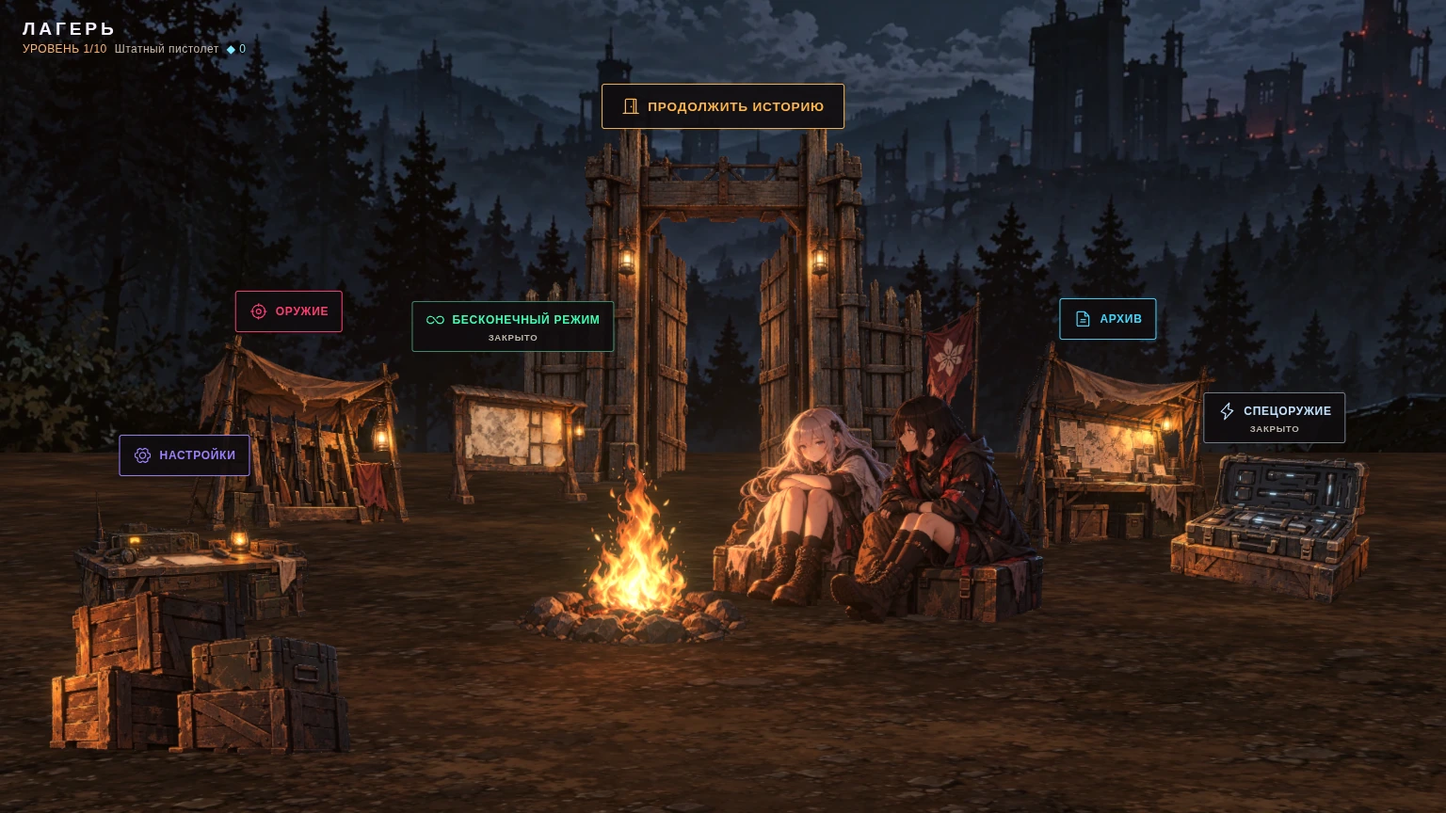
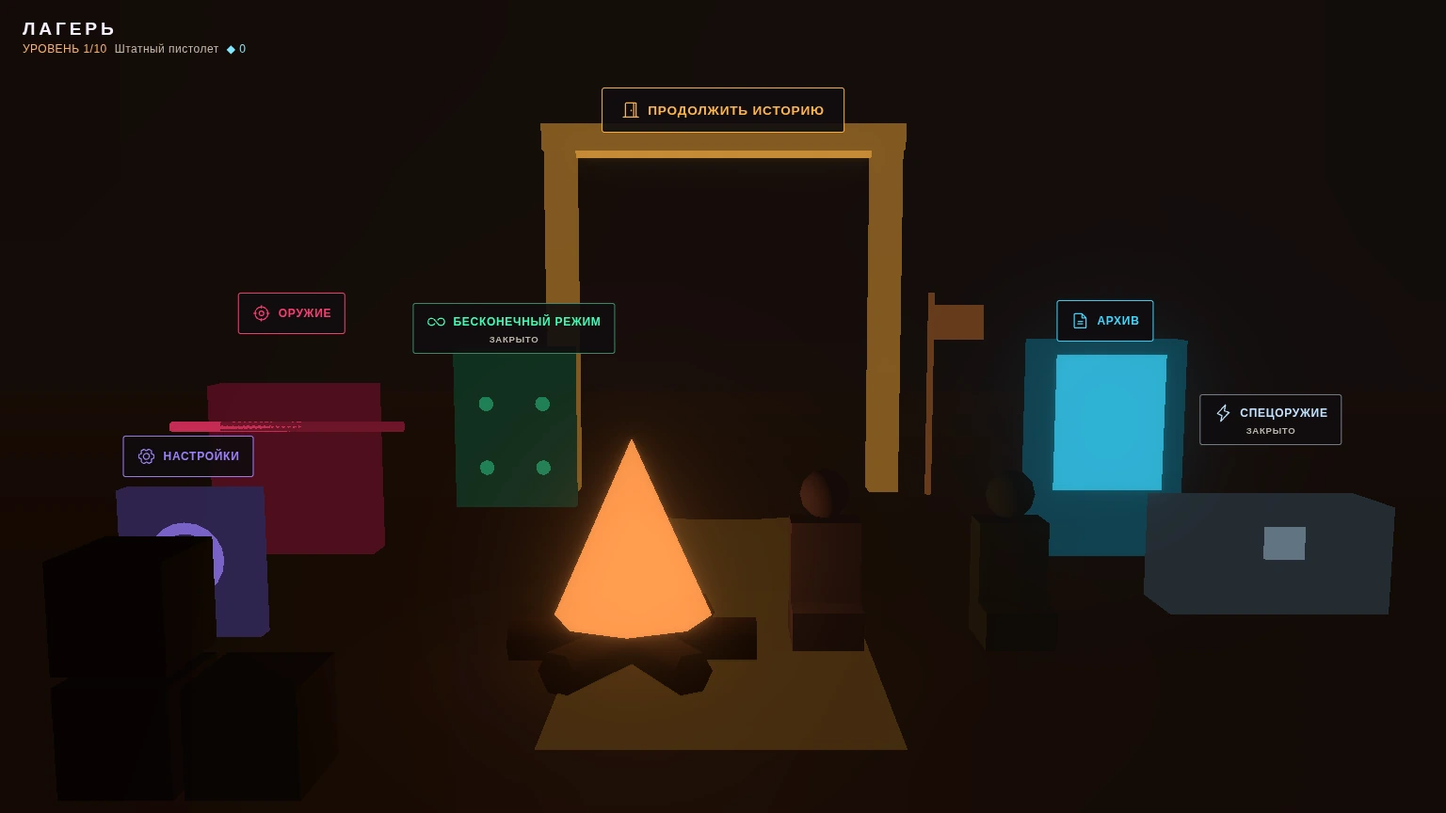
Remove generated camp art and keep schematic geometry

diff --git a/src/world/CampWorld.ts b/src/world/CampWorld.ts
@@ -3,8 +3,7 @@ import { CAMP_STATIONS, type CampStationDefinition, type CampStationId, type Cam
 import { CAMP_LAYOUT, CAMP_GROUND } from '../gameplay/campLayout';
 import { createCampCutout } from './CampCutout';
 import { WEAPONS } from '../gameplay/weapons';
-import { createCharacterPoseTexture } from '../utils/characterSprite';
-import { CAMP_SCENE, CAMP_CAMERA, PLAYER } from '../utils/constants';
+import { CAMP_SCENE, CAMP_CAMERA } from '../utils/constants';
 import { tryLoadTiledTexture } from '../utils/textureLoader';
 
 interface StationVisual {
@@ -56,7 +55,7 @@ export class CampWorld {
     this.backdrop = createCampCutout(CAMP_LAYOUT.backdrop.asset);
     this.backdrop.position.copy(CAMP_LAYOUT.backdrop.position);
     this.group.add(this.backdrop);
-    const foreground = createCampCutout(CAMP_LAYOUT.foregroundSupplies.asset);
+    const foreground = createCampCutout(CAMP_LAYOUT.foregroundSupplies.asset, this.buildCrates());
     foreground.position.copy(CAMP_LAYOUT.foregroundSupplies.position);
     this.group.add(foreground);
     this.group.add(this.buildAmbientLight());
@@ -73,7 +72,7 @@ export class CampWorld {
     this.character = this.buildCharacter();
     this.characterBaseY = this.character.position.y;
     this.group.add(this.character);
-    const companion = createCampCutout(CAMP_LAYOUT.companion.asset);
+    const companion = this.buildCharacter(true);
     companion.position.copy(CAMP_LAYOUT.companion.position);
     this.group.add(companion);
   }
@@ -91,7 +90,7 @@ export class CampWorld {
     floor.rotation.x = -Math.PI / 2;
     floor.position.set(0, -0.02, 0);
 
-    tryLoadTiledTexture(CAMP_GROUND.texturePath, CAMP_GROUND.repeatX, CAMP_GROUND.repeatY, (texture) => {
+    if (CAMP_GROUND.texturePath) tryLoadTiledTexture(CAMP_GROUND.texturePath, CAMP_GROUND.repeatX, CAMP_GROUND.repeatY, (texture) => {
       material.map = texture;
       material.color.setHex(0xffffff);
       material.emissiveMap = texture;
@@ -109,7 +108,6 @@ export class CampWorld {
 
   private buildCampfire(): THREE.PointLight {
     const fireGroup = new THREE.Group();
-    fireGroup.position.copy(CAMP_LAYOUT.fire.position);
 
     const logMaterial = new THREE.MeshStandardMaterial({
       color: 0x2b1a10,
@@ -221,19 +219,30 @@ export class CampWorld {
     this.embers.instanceMatrix.needsUpdate = true;
   }
 
-  private buildCharacter(): THREE.Group {
-    const texture = createCharacterPoseTexture('kneel');
-    const material = new THREE.MeshBasicMaterial({
-      map: texture,
-      transparent: true,
-      alphaTest: 0.1,
-      side: THREE.DoubleSide,
-    });
-    const geometry = new THREE.PlaneGeometry(PLAYER.WIDTH, PLAYER.HEIGHT);
-    const mesh = new THREE.Mesh(geometry, material);
-    mesh.position.y = PLAYER.HEIGHT / 2;
-    const group = createCampCutout(CAMP_LAYOUT.character.asset, mesh);
-    group.position.copy(CAMP_LAYOUT.character.position);
+  private buildCharacter(companion = false): THREE.Group {
+    const definition = companion ? CAMP_LAYOUT.companion : CAMP_LAYOUT.character;
+    const material = new THREE.MeshStandardMaterial({ color: companion ? 0x819d91 : 0x9988ad, roughness: 1 });
+    const figure = new THREE.Group();
+    const head = new THREE.Mesh(new THREE.SphereGeometry(0.2, 8, 6), material);
+    head.position.y = 1.25;
+    const body = new THREE.Mesh(new THREE.BoxGeometry(0.55, 0.65, 0.35), material);
+    body.position.y = 0.72;
+    const legs = new THREE.Mesh(new THREE.BoxGeometry(0.55, 0.3, 0.65), material);
+    legs.position.set(0, 0.25, 0.15);
+    figure.add(head, body, legs);
+    const group = createCampCutout(definition.asset, figure);
+    group.position.copy(definition.position);
+    return group;
+  }
+
+  private buildCrates(): THREE.Group {
+    const material = new THREE.MeshStandardMaterial({ color: 0x52504a, roughness: 1 });
+    const group = new THREE.Group();
+    for (let i = 0; i < 3; i++) {
+      const crate = new THREE.Mesh(new THREE.BoxGeometry(0.5, 0.5, 0.5), material);
+      crate.position.set((i % 2) * 0.55, 0.25 + Math.floor(i / 2) * 0.55, 0);
+      group.add(crate);
+    }
     return group;
   }
 
@@ -339,11 +348,11 @@ export class CampWorld {
     const dim = station.ready ? 1 : 0.4;
 
     const baseMaterial = new THREE.MeshStandardMaterial({
-      color: 0x201509,
+      color: 0x353a43,
       roughness: 0.75,
       metalness: 0.15,
       emissive: new THREE.Color(station.accentColorHex),
-      emissiveIntensity: 0.18 * dim,
+      emissiveIntensity: 0.08 * dim,
     });
     const accentMaterial = new THREE.MeshStandardMaterial({
       color: station.accentColorHex,
@@ -465,7 +474,7 @@ export class CampWorld {
     visual.locked = locked;
 
     const dim = locked ? 0.4 : 1;
-    visual.baseMaterial.emissiveIntensity = 0.18 * dim;
+    visual.baseMaterial.emissiveIntensity = 0.08 * dim;
     visual.accentMaterial.emissiveIntensity = 0.6 * dim;
 
   }

diff --git a/src/gameplay/campStations.ts b/src/gameplay/campStations.ts
@@ -40,7 +40,7 @@ export const CAMP_STATIONS: CampStationDefinition[] = [
     label: 'ОРУЖИЕ',
     ready: true,
     propPosition: { x: -6, y: 0, z: -0.5 },
-    asset: { path: '/assets/camp/weapon.webp', width: 3.2, height: 3.1 },
+    asset: { width: 3.2, height: 3.1 },
     labelHeight: 3.35,
     cameraPosition: stationCamera,
     cameraLookAt: stationLookAt,
@@ -52,7 +52,7 @@ export const CAMP_STATIONS: CampStationDefinition[] = [
     label: 'АРХИВ',
     ready: true,
     propPosition: { x: 5.3, y: 0, z: -0.4 },
-    asset: { path: '/assets/camp/archive.webp', width: 3.2, height: 3.0 },
+    asset: { width: 3.2, height: 3.0 },
     labelHeight: 3.25,
     cameraPosition: stationCamera,
     cameraLookAt: stationLookAt,
@@ -64,7 +64,7 @@ export const CAMP_STATIONS: CampStationDefinition[] = [
     label: 'БЕСКОНЕЧНЫЙ РЕЖИМ',
     ready: false,
     propPosition: { x: -3.5, y: 0, z: -3.8 },
-    asset: { path: '/assets/camp/endless.webp', width: 2.5, height: 2.7 },
+    asset: { width: 2.5, height: 2.7 },
     labelHeight: 3,
     cameraPosition: stationCamera,
     cameraLookAt: stationLookAt,
@@ -76,7 +76,7 @@ export const CAMP_STATIONS: CampStationDefinition[] = [
     label: 'СПЕЦОРУЖИЕ',
     ready: false,
     propPosition: { x: 6.4, y: 0, z: 2.3 },
-    asset: { path: '/assets/camp/special.webp', width: 2.5, height: 1.9 },
+    asset: { width: 2.5, height: 1.9 },
     labelHeight: 2.2,
     cameraPosition: stationCamera,
     cameraLookAt: stationLookAt,
@@ -88,7 +88,7 @@ export const CAMP_STATIONS: CampStationDefinition[] = [
     label: 'НАСТРОЙКИ',
     ready: true,
     propPosition: { x: -5.7, y: 0, z: 3.5 },
-    asset: { path: '/assets/camp/settings.webp', width: 2.7, height: 1.6 },
+    asset: { width: 2.7, height: 1.6 },
     labelHeight: 1.95,
     cameraPosition: stationCamera,
     cameraLookAt: stationLookAt,
@@ -100,7 +100,7 @@ export const CAMP_STATIONS: CampStationDefinition[] = [
     label: 'ПРОДОЛЖИТЬ ИСТОРИЮ',
     ready: true,
     propPosition: { x: 0, y: 0, z: -5.4 },
-    asset: { path: '/assets/camp/gate.webp', width: 7.2, height: 6.55 },
+    asset: { width: 7.2, height: 6.55 },
     labelHeight: 6.8,
     cameraPosition: stationCamera,
     cameraLookAt: stationLookAt,

diff --git a/src/gameplay/campLayout.ts b/src/gameplay/campLayout.ts
@@ -18,42 +18,41 @@ export interface CampPropDefinition {
 export const CAMP_LAYOUT = {
   fire: {
     position: { x: -0.9, y: 0, z: 4.3 },
-    asset: { path: '/assets/camp/fire-base.webp', width: 2.5, height: 1.15 },
+    asset: { width: 2.5, height: 1.15 },
   },
   flame: {
     position: { x: -0.9, y: 0.45, z: 4.31 },
-    asset: { path: '/assets/camp/flame.webp', width: 1.6, height: 2.0 },
+    asset: { width: 1.6, height: 2.0 },
   },
   character: {
-    position: { x: 1.65, y: 0, z: 3.5 },
-    asset: { path: '/assets/camp/survivors.webp', width: 3.7, height: 2.7 },
+    position: { x: 1.1, y: 0, z: 3.5 },
+    asset: { width: 1.1, height: 1.8 },
   },
   companion: {
     position: { x: 3.1, y: 0, z: 3.45 },
-    asset: { width: 1.6, height: 2.2 },
+    asset: { width: 1.1, height: 1.8 },
   },
   flag: {
     position: { x: 4.1, y: 0, z: -4.9 },
-    asset: { path: '/assets/camp/flag.webp', width: 1.6, height: 3.6 },
+    asset: { width: 1.6, height: 3.6 },
     unlockStage: 1,
   },
   supplies: {
     position: { x: 4.4, y: 0, z: 3.6 },
-    asset: { path: '/assets/camp/supplies.webp', width: 1.8, height: 1.3 },
+    asset: { width: 1.8, height: 1.3 },
     unlockStage: 8,
   },
   foregroundSupplies: {
     position: { x: -4.0, y: 0, z: 7.2 },
-    asset: { path: '/assets/camp/supplies.webp', width: 2.5, height: 1.8 },
+    asset: { width: 2.5, height: 1.8 },
   },
   backdrop: {
     position: { x: 0, y: -6, z: -10 },
-    asset: { path: '/assets/camp/backdrop.webp', width: 48, height: 22 },
+    asset: { width: 48, height: 22 },
   },
 } satisfies Record<string, CampPropDefinition>;
 
-export const CAMP_GROUND = {
-  texturePath: '/assets/camp/ground.webp',
+export const CAMP_GROUND: { texturePath?: string; repeatX: number; repeatY: number } = {
   repeatX: 4,
   repeatY: 4,
 };

diff --git a/src/world/CampCutout.ts b/src/world/CampCutout.ts
@@ -8,7 +8,19 @@ export function createCampCutout(
   fallback?: THREE.Object3D
 ): THREE.Group {
   const group = new THREE.Group();
-  if (fallback) group.add(fallback);
+  if (fallback) {
+    // Schematic geometry uses the same layout box and ground pivot as final art.
+    const bounds = new THREE.Box3().setFromObject(fallback);
+    const size = bounds.getSize(new THREE.Vector3());
+    const fit = Math.min(asset.width / Math.max(size.x, 0.001), asset.height / Math.max(size.y, 0.001));
+    const [pivotX, pivotY] = asset.pivot ?? [0.5, 0];
+    const schematic = new THREE.Group();
+    schematic.add(fallback);
+    schematic.scale.setScalar(fit);
+    schematic.position.set(-(bounds.min.x + size.x * pivotX) * fit, -(bounds.min.y + size.y * pivotY) * fit, 0);
+    group.add(schematic);
+    fallback = schematic;
+  }
   if (!asset.path) return group;
 
   tryLoadTexture(asset.path, (texture) => {

diff --git a/docs/camp/README.md b/docs/camp/README.md
@@ -1,43 +1,42 @@
-# Лагерь: плоские ассеты в 2.5D
+# Лагерь: схематичная сцена под будущие 2D-ассеты
 
-Композиция следует выбранному [эскизу](reference.webp): ворота в глубине, костёр и Юки с Реном впереди, оборудование по сторонам. Каждая иллюстрация — отдельная вертикальная плоскость в Three.js. Подписи и кнопки не входят в изображения.
+Лагерь показан простыми геометрическими формами без иллюстраций и текстур. Ворота находятся в глубине, костёр и два схематичных персонажа — впереди, шесть станций — по сторонам. Подписи и кнопки остаются отдельным интерфейсом.
 
-## Где менять расположение и картинки
+## Расположение
 
-- `src/gameplay/campStations.ts`: позиции шести станций, пути к их изображениям, размеры и высота подписи.
-- `src/gameplay/campLayout.ts`: костёр, пламя, герои, флаг, ящики, задник и текстура земли.
-- `src/utils/constants.ts`: общий ракурс камеры и свет лагеря.
-- `public/assets/camp/`: иллюстрации WebP с прозрачностью, где она нужна. Их можно заменить финальными ассетами с теми же именами.
+- `src/gameplay/campStations.ts`: позиции станций, размеры рамок будущих изображений и высота подписи.
+- `src/gameplay/campLayout.ts`: костёр, пламя, персонажи, флаг, ящики, задник и настройки земли.
+- `src/utils/constants.ts`: общий ракурс камеры и свет.
 
-Размеры `width` и `height` задают рамку в мировых единицах. Загрузчик вписывает рисунок в неё с сохранением пропорций. По умолчанию точка опоры находится внизу по центру. Не оставляйте лишних прозрачных полей под ногами персонажей или основанием предмета: они будут выглядеть парящими.
+Размеры `width` и `height` задают рамку в мировых единицах. Схематичная геометрия вписывается в эту рамку с сохранением пропорций. По умолчанию точка опоры — нижний центр. `propPosition` относится к этой точке; `labelHeight` отдельно задаёт высоту подписи.
 
-Для нестандартной точки опоры задайте `pivot: [x, y]`: координаты от 0 до 1, отсчёт от левого нижнего угла картинки. `[0.5, 0]` — нижний центр, `[0.5, 0.5]` — центр. `propPosition` всегда относится к этой точке опоры. `labelHeight` отдельно задаёт высоту интерфейса; подпись не масштабируется вместе с рисунком.
+В лагере нет подключённых иллюстраций. Пока `path` не задан, загрузчик не делает запросов изображений. Чтобы добавить свой 2D-ассет, положите файл в `public/assets/camp/` и задайте путь в нужном определении:
 
-## Слои и ракурс
+```ts
+asset: {
+  path: '/assets/camp/gate.png',
+  width: 7.2,
+  height: 6.55,
+  pivot: [0.5, 0],
+}
+```
 
-| План | Объекты |
-| --- | --- |
-| Дальний | Город и лес, ворота, флаг |
-| Средний | Стойка оружия, доска заданий, архив |
-| Ближний | Радиостанция, спецоружие, герои и костёр |
-| Передний | Низкие ящики сбоку; центральный проход свободен |
+Загрузчик покажет рисунок после успешной загрузки и скроет временную геометрию. Если загрузка не удалась, схема останется доступной. Рисунок вписывается без растягивания. `pivot` задаётся от 0 до 1 с отсчётом от левого нижнего угла; `[0.5, 0]` — нижний центр. Убирайте лишние прозрачные поля снизу, чтобы предмет стоял на земле.
 
-Картинки смотрят в одну сторону и не поворачиваются за камерой. У всех рисунков должна быть одна перспектива: почти фронтальная, с небольшим взглядом сверху. При выборе станции камера немного приближается, без облёта. На узких экранах камера сохраняет лагерь целиком, а кнопки переходят в компактную сетку.
+Текстуру земли можно подключить через `CAMP_GROUND.texturePath`. По умолчанию земля однотонная. Юки и Рен используют отдельные определения `character` и `companion`; костёр разделён на основание, пламя, свет и искры.
 
-Костёр разделён на основание и пламя; движение пламени, свет и искры работают независимо. Юки и Рен сейчас нарисованы одним ассетом `survivors.webp`. Чтобы разделить их, замените изображение `character` и добавьте путь в `companion`; отдельно настройте позиции и размеры.
+## Композиция и взаимодействие
 
-У ворот прозрачный проход: он показывает настоящий дальний слой. Земля — отдельная повторяемая текстура. Грубую геометрию сохраняем как запасной вариант до успешной загрузки рисунка; отсутствие одного ассета не блокирует работу станции.
+Камера сохраняет почти фронтальный ракурс и лишь немного приближается при выборе станции. На узком экране она показывает лагерь целиком, а кнопки переходят в компактную сетку.
 
-## Интерактивность
+Станции используют HTML-кнопки и иконки Phosphor. Работают мышь, касание и клавиатура. Нажатие закрытой станции объясняет условия открытия. Скрытые панели и кнопки исключаются из взаимодействия через `inert`.
 
-Станции используют HTML-кнопки с отдельными подписями, цветами и иконками Phosphor. Доступны мышь, касание и клавиатура. Нажатие закрытой станции объясняет условие открытия. Скрытые панели и кнопки лагеря исключаются из взаимодействия через `inert`.
-
-Оружие, архив, настройки, спецоружие и обе точки запуска сохраняют существующую игровую логику. Возвращение в лагерь из паузы меняет подпись активной точки на «ПРОДОЛЖИТЬ БОЙ».
+Существующая игровая логика сохраняется: оружие, архив, настройки, спецоружие, история и бесконечный режим. После возврата из паузы активная точка запуска показывает «ПРОДОЛЖИТЬ БОЙ».
 
 ## Проверка
 
 `npm ci` и `npm run build`.
 
-В браузере проверьте настройки звука, условия открытия закрытых станций, архив и возврат, выбор оружия, запуск истории, паузу → лагерь → продолжение боя. Повторите на широком и узком экране. Все шесть кнопок должны быть доступны, подписи не должны перекрываться.
+Проверьте настройки звука, условия открытия, архив и возврат, клавиатуру, запуск истории и маршрут «бой → лагерь → продолжить бой». Повторите на широком и узком экране: все шесть станций должны быть доступны без перекрытия подписей.
 
-Изображения подготовлены как отдельные концептуальные ассеты по выбранному эскизу; дальнейшие авторские иллюстрации заменяют их через этот же контракт. Пакет изображений оптимизирован в WebP, исходные генерации не используются как цельная фоновая картинка с нарисованными кнопками.
+Актуальные скриншоты: [широкий экран](desktop.webp), [узкий экран](mobile.webp).

diff --git a/design-qa.md b/design-qa.md
@@ -1,49 +1,26 @@
-# Camp design QA
+# Проверка схематичного лагеря
 
-Source: `docs/camp/reference.webp`, the first displayed concept selected by the user.
-Implementation: `docs/camp/desktop.webp` and `docs/camp/mobile.webp`.
-Full comparison: `docs/camp/comparison.webp` (reference left, implementation right).
-Focused station comparison: `docs/camp/stations-comparison.webp`.
+Текущая цель: простые геометрические формы без сгенерированных иллюстраций и текстур, с сохранением расположения и работающих станций.
 
-## Evidence and scope
+## Визуальные материалы
 
-Source pixels: 1672 × 941, normalized to 1536 × 864 for comparison.
-Desktop screenshot: 1536 × 864 CSS/pixels, deviceScaleFactor 1.
-Portrait screenshot: 390 × 844 CSS/pixels, deviceScaleFactor 1.
-State: camp overview, story incomplete. The illustrative concept says stage 4; the running game correctly shows its actual stage 1. Images are newly generated separate cutouts rather than an exact extraction of the illustration. Existing gameplay and unlock rules take precedence over illustrative labels and invented mock state.
+- Широкий экран: `docs/camp/desktop.webp`, 1536 × 864 CSS/pixels.
+- Узкий экран: `docs/camp/mobile.webp`, 390 × 844 CSS/pixels.
+- deviceScaleFactor: 1, состояние — лагерь перед первым этапом.
+- Снимки получены из работающего приложения в локальном Chromium через Playwright. Облачное превью не публиковалось.
 
-Evidence was captured from the running Vite application with local Chromium/Playwright. A hosted cloud-browser preview was not available; this report does not claim one.
+Сгенерированные ассеты, исходный эскиз и старые сравнения удалены из актуальной версии ветки. Скриншоты документации показывают схематичную сцену.
 
-## Findings and fixes
+## Результат
 
-- [P1, resolved] Original hover/camera movement rotated or scaled whole stations. Fixed shared frontal camera, fixed cutouts, independent projected HTML buttons, slight selection zoom only.
-- [P1, resolved] Initial implementation retained primitive station geometry. Added separate transparent illustrations for all six stations, fire layers, protagonists, flag and supplies, plus backdrop and ground.
-- [P2, resolved] Camp header overlapped combat/debug UI. Camp now hides combat HUD and the debug panel; heading stays at the upper left.
-- [P2, resolved] Primary gate label wrapped. Enlarged its available width and increased the gate's visual prominence.
-- [P2, resolved] First portrait return from a panel left a focused hidden button outside the viewport, causing document scrolling. Clipped the camp screen, made hidden panels inert and noninteractive, and reran the complete portrait journey.
-- [P2, resolved] Sprites could stretch when replacement art had different proportions. Cutouts now fit within their configured boxes while preserving their natural aspect ratio.
-- [P2, resolved] First background layout left uncovered areas in portrait. Background scale now follows the shared camera's aspect fitting.
+Станции представлены простыми формами; ворота, костёр, флаг, ящики и два персонажа читаются как отдельные объекты. Все шесть подписей находятся внутри широкого экрана и не перекрываются. На узком экране кнопки переходят в компактную сетку; минимальная высота области нажатия — 44 px.
 
-Post-fix screenshots and combined comparison show a centered gateway as the primary destination, fire and protagonists in the foreground, distinct equipment stations on both sides, readable independent labels and clear paths. The reference's dense environmental clutter is intentionally reduced for independently replaceable assets and readable interactions.
+Пути изображений не заданы, поэтому лагерь не запрашивает удалённые ассеты. Текстура земли также отключена. Сохранена возможность подключить свои 2D-изображения: размеры рамок, нижние точки опоры и сохранение пропорций используют один контракт для схемы и будущего рисунка.
 
-## Required fidelity surfaces
+## Проверки
 
-- Typography: legible system sans-serif, uppercase station labels, stable readable UI sizes independent of world scale, hierarchy between primary entrance and supporting stations. Actual progress and equipment names are retained.
-- Spacing/layout: six labels remain inside the desktop viewport with no overlapping bounds; portrait buttons move to a two-column dock with the entrance spanning both columns, minimum target height 44 px.
-- Color: warm amber fire and gate against a dark woodland/city backdrop; inherited station accent colors distinguish functions. Equipment and ground keep earthy colors.
-- Images: separate raster art, transparent openings/edges, consistent frontal perspective; no baked UI labels. Aspect preservation and bottom-center anchors verified. Phosphor provides UI icons.
-- Copy: Russian UI and existing unlock conditions; the entrance dynamically changes to «ПРОДОЛЖИТЬ БОЙ» when returning from combat.
+В браузере проверены настройки звука, объяснение открытия закрытой станции, архив и возврат, клавиатурная активация, все кнопки узкого экрана, запуск истории, отключение скрытых элементов, пауза → лагерь → продолжение боя. Исключений JavaScript нет; неудачных запросов ассетов лагеря нет.
 
-## Interaction checks
-
-Verified in browser: settings audio toggle, locked-station explanation, archive and return, keyboard station activation, all six portrait targets, story launch and intro, hidden controls becoming inert, pause → camp → resume battle. No JavaScript page exceptions. New camp assets load successfully. Two resource-error console messages were observed during the development run; the response listener recorded no failed camp request. Missing pre-existing sprite/arena art remains outside this change; no claim of a completely clean asset console is made.
-
-`npm run build` and `git diff --check` pass. Vite retains its existing large-bundle warning.
-
-## Follow-up polish
-
-- Final author-created illustrations can replace the concept assets through the documented layout contract.
-- Hand-painted contact shadows and additional low foreground foliage would bring environmental density closer to the concept.
-- Exact ground-texture seam quality and animation frames can be refined with final art.
+`npm run build` и `git diff --check` проходят. Vite сохраняет предупреждение о размере JavaScript-бандла. В dev-консоли отмечены два сообщения о загрузке ресурсов, поэтому отчёт не заявляет полностью чистую консоль.
 
 final result: passed
